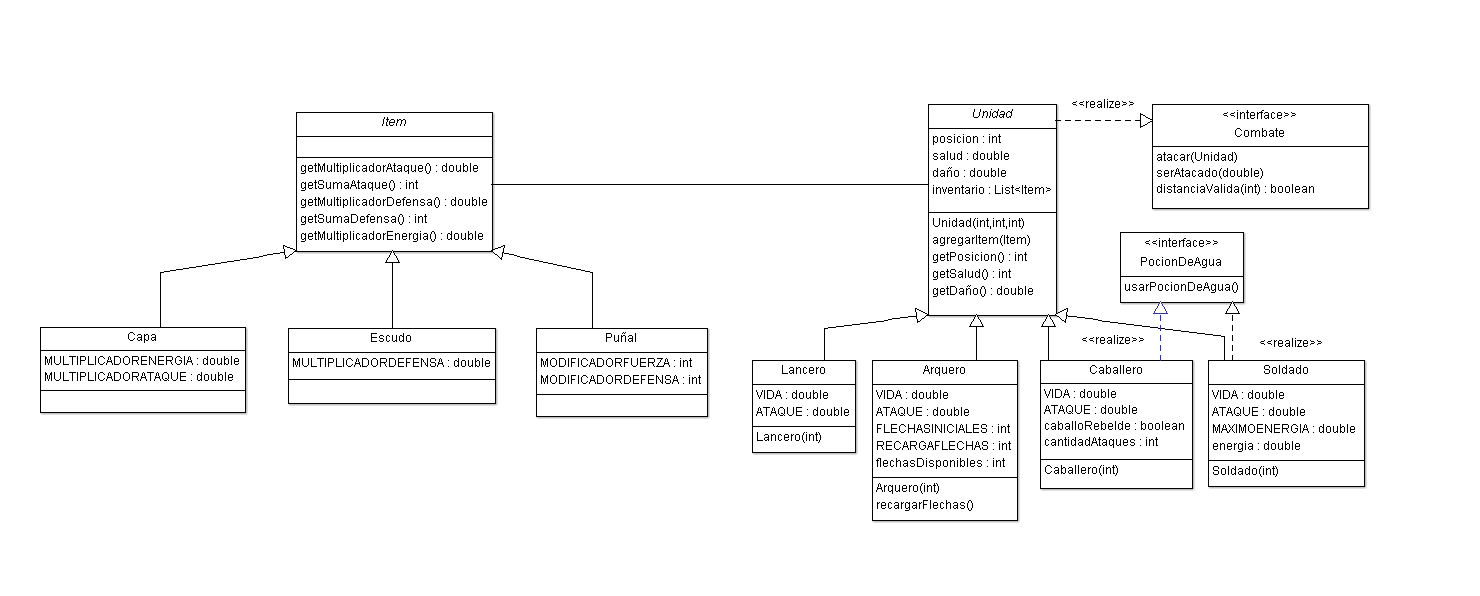
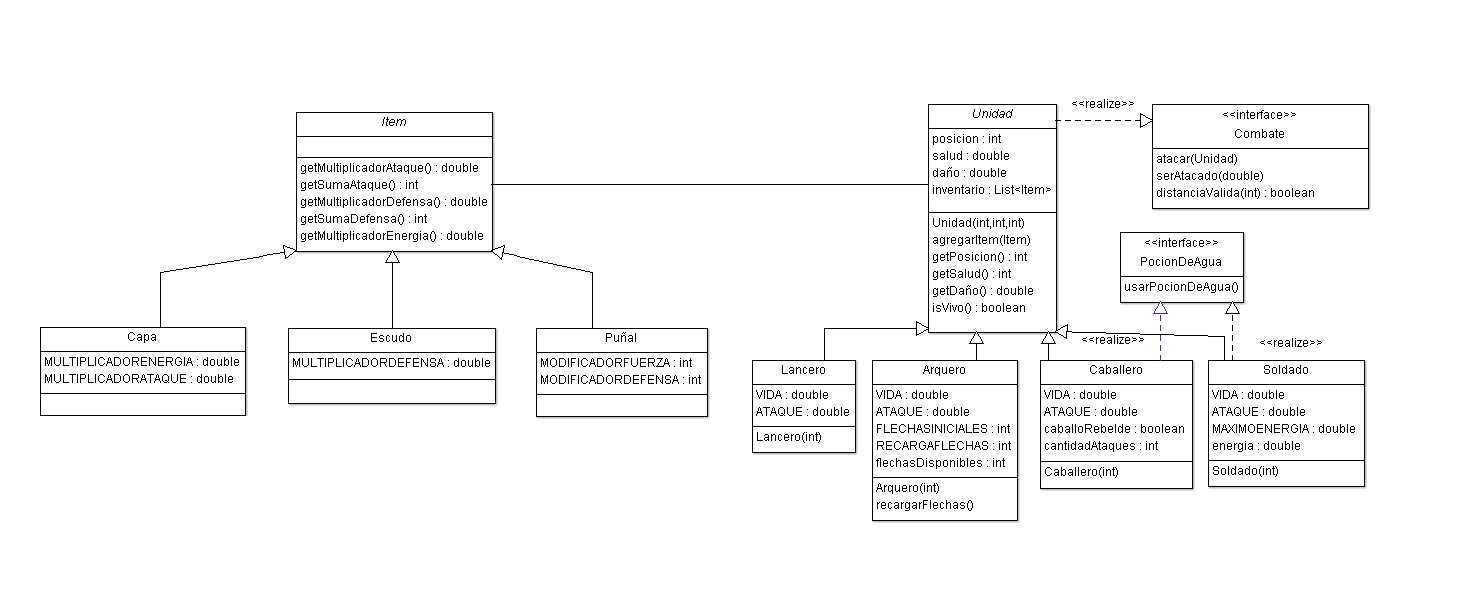
Pre morticidio

diff --git a/Desarrollo/test/unidad/TestUnidad.java b/Desarrollo/test/unidad/TestUnidad.java
@@ -1,14 +1,95 @@
 package unidad;
 
-import static org.junit.Assert.*;
+import static org.junit.Assert.assertEquals;
 
 import org.junit.Test;
+
+import inventario.Capa;
+import inventario.Escudo;
+import inventario.Puñal;
 
 public class TestUnidad {
 
 	@Test
-	public void test() {
-		fail("Not yet implemented");
+	public void testUnidades() {
+		Unidad soldado = new Soldado(3);
+		Arquero arquero = new Arquero(6);
+		soldado.atacar(arquero);
+		// El guerrero no podría atacarlo por la distancia.
+		assertEquals(50, arquero.getSalud(), 0);
+		arquero.atacar(soldado);
+		// El arquero logra atacar al guerero.
+		assertEquals(195, soldado.getSalud(), 0);
 	}
 
+	@Test
+	public void testItems() {
+		Lancero lancero = new Lancero(3);
+		Soldado soldado = new Soldado(2);
+		Caballero caballero = new Caballero(1);
+
+		lancero.agregarItem(new Escudo());
+		soldado.agregarItem(new Capa());
+		soldado.agregarItem(new Puñal());
+
+		lancero.atacar(soldado);
+		// EL soldado perdio defensa por el puñal.
+		assertEquals(172, soldado.getSalud(), 0);
+
+		for (int i = 0; i < 10; i++) {
+			soldado.atacar(caballero);
+		}
+		// Gracias a los modificadores de daño, el soldado logró sacarle 110.
+		assertEquals(90, caballero.getSalud(), 0);
+		soldado.atacar(caballero);
+		// El soldado logra atacar una vez más permitida gracias a la capa.
+		assertEquals(79, caballero.getSalud(), 0);
+
+		// Gracias al escudo, logra reducir el ataque aumentado del soldado.
+		soldado.atacar(lancero);
+		assertEquals(143, lancero.getSalud(), 0);
+	}
+
+	@Test
+	public void pocionesDeAgua() {
+		Soldado soldado = new Soldado(3);
+		Caballero caballero = new Caballero(4);
+		int i = 0;
+		while (i < 3) {
+			soldado.atacar(caballero);
+			caballero.atacar(soldado);
+			i++;
+		}
+
+		// El caballero logró casi acabar con el guerero.
+		assertEquals(50, soldado.getSalud(), 0);
+		// El caballero logró casi acabar con el guerero.
+		assertEquals(170, caballero.getSalud(), 0);
+		soldado.atacar(caballero);
+		caballero.atacar(soldado);
+
+		// El soldado logra atacar al caballero, pero el caballero tiene al
+		// caballo rebelde.
+		assertEquals(50, soldado.getSalud(), 0);
+		assertEquals(160, caballero.getSalud(), 0);
+
+		// Hago que se le acabe la energía al soldado.
+		for (int j = 0; j < 7; j++) {
+			soldado.atacar(caballero);
+		}
+		soldado.atacar(caballero);
+		// El soldado no tiene más energía para atacar.
+		assertEquals(50, soldado.getSalud(), 0);
+		assertEquals(100, caballero.getSalud(), 0);
+
+		// Se restaura todo.
+		soldado.usarPocionDeAgua();
+		caballero.usarPocionDeAgua();
+
+		// El soldado ataca y el caballero finalmente lo mata.
+		soldado.atacar(caballero);
+		assertEquals(90, caballero.getSalud(), 0);
+		caballero.atacar(soldado);
+		assertEquals(0, soldado.getSalud(), 0);
+	}
 }

diff --git a/Desarrollo/src/unidad/Unidad.java b/Desarrollo/src/unidad/Unidad.java
@@ -44,6 +44,10 @@ public abstract class Unidad implements Combate {
 		this.salud = salud;
 	}
 
+	public Unidad(final Unidad unidad) {
+
+	}
+
 	/**
 	 * Agrega un item al inventario. <br>
 	 * 
@@ -100,7 +104,7 @@ public abstract class Unidad implements Combate {
 			multiplicadorDefensa += daño * actual.getMultiplicadorDefensa();
 		}
 		if (daño >= (multiplicadorDefensa + sumaDefensa)) {
-			this.salud -= daño + multiplicadorDefensa + sumaDefensa;
+			this.salud -= daño - (multiplicadorDefensa + sumaDefensa);
 		}
 		if (this.salud < 0) {
 			this.salud = 0;
@@ -115,5 +119,15 @@ public abstract class Unidad implements Combate {
 	 */
 	public void cambiarPosicion(final int posicionNueva) {
 		this.posicion = posicionNueva;
+	}
+
+	/**
+	 * Indica si la unidad se encuentra viva. <br>
+	 * 
+	 * @return <b>true</b> si la unidad tiene puntos de vida.<br>
+	 *         <b>false</b> si la unidad no tiene puntos de vida. <br>
+	 */
+	public boolean isVivo() {
+		return (this.salud != 0 ? true : false);
 	}
 }

diff --git a/Desarrollo/src/unidad/Caballero.java b/Desarrollo/src/unidad/Caballero.java
@@ -24,6 +24,12 @@ public class Caballero extends Unidad implements PocionDeAgua {
 	 */
 	private int cantidadAtaques;
 
+	/**
+	 * Crea un caballero. <br>
+	 * 
+	 * @param posicion
+	 *            Posición del caballero. <br>
+	 */
 	public Caballero(final int posicion) {
 		super(posicion, VIDA, ATAQUE);
 		this.caballoRebelde = false;
@@ -35,13 +41,13 @@ public class Caballero extends Unidad implements PocionDeAgua {
 	 */
 	@Override
 	public void usarPocionDeAgua() {
-		this.caballoRebelde = true;
+		this.caballoRebelde = false;
 		this.cantidadAtaques = 0;
 	}
 
 	@Override
 	public void atacar(final Unidad atacado) {
-		if (!this.caballoRebelde && distanciaValida(atacado.getPosicion())) {
+		if (!this.caballoRebelde && distanciaValida(atacado.getPosicion()) && atacado.isVivo()) {
 			atacado.serAtacado(super.getDaño());
 			this.cantidadAtaques++;
 			if (this.cantidadAtaques == 3) {

diff --git a/Desarrollo/src/inventario/Capa.java b/Desarrollo/src/inventario/Capa.java
@@ -1,11 +1,14 @@
 package inventario;
 
+import unidad.UnidadDecorada;
+
 /**
  * Clase que administra la los atributos de una capa.
  * <p>
  * La unidad recibe un aumento de energía pero se ve afectado en el ataque. <br>
  */
-public class Capa extends Item {
+public class Capa extends UnidadDecorada {
+
 	/**
 	 * Multiplicador de energía. <br>
 	 */
@@ -16,12 +19,9 @@ public class Capa extends Item {
 	private static final double MULTIPLICADORATAQUE = -0.2;
 
 	@Override
-	public double getMultiplicadorAtaque() {
-		return MULTIPLICADORATAQUE;
+	public double getDaño() {
+		return super.getDaño() * MULTIPLICADORATAQUE;
 	}
 
-	@Override
-	public double getMultiplicadorEnergia() {
-		return MULTIPLICADORENERGIA;
-	}
+	// Unidad soldado = new Capa(new Soldado(2)); -- Si no existe el soldado.
 }

diff --git a/Desarrollo/src/unidad/UnidadDecorada.java b/Desarrollo/src/unidad/UnidadDecorada.java
@@ -1,0 +1,23 @@
+package unidad;
+
+public abstract class UnidadDecorada extends Unidad {
+	protected Unidad unidadDecorada;
+
+	public UnidadDecorada(final Unidad unidad) {
+		super(unidad);
+	}
+
+	@Override
+	public double getDaño() {
+		return this.unidadDecorada.getDaño();
+	}
+
+	@Override
+	public double getSalud() {
+		return this.unidadDecorada.getSalud();
+	}
+
+	public double getDefensa() {
+		return 0;
+	}
+}

diff --git a/Desarrollo/src/unidad/Arquero.java b/Desarrollo/src/unidad/Arquero.java
@@ -48,7 +48,7 @@ public class Arquero extends Unidad {
 
 	@Override
 	public void atacar(final Unidad atacado) {
-		if (this.flechasDisponibles > 0 && distanciaValida(atacado.getPosicion())) {
+		if (this.flechasDisponibles > 0 && distanciaValida(atacado.getPosicion()) && atacado.isVivo()) {
 			atacado.serAtacado(super.getDaño());
 			this.flechasDisponibles--;
 		}

diff --git a/Desarrollo/src/unidad/Soldado.java b/Desarrollo/src/unidad/Soldado.java
@@ -47,7 +47,7 @@ public class Soldado extends Unidad implements PocionDeAgua {
 
 	@Override
 	public void atacar(final Unidad atacado) {
-		if (this.energia >= 10 && distanciaValida(atacado.getPosicion())) {
+		if (this.energia >= 10 && distanciaValida(atacado.getPosicion()) && atacado.isVivo()) {
 			atacado.serAtacado(super.getDaño());
 			this.energia -= 10;
 		}

diff --git a/Desarrollo/src/unidad/Lancero.java b/Desarrollo/src/unidad/Lancero.java
@@ -33,7 +33,7 @@ public class Lancero extends Unidad {
 
 	@Override
 	public void atacar(final Unidad atacado) {
-		if (distanciaValida(atacado.getPosicion())) {
+		if (distanciaValida(atacado.getPosicion()) && atacado.isVivo()) {
 			atacado.serAtacado(super.getDaño());
 		}
 	}
